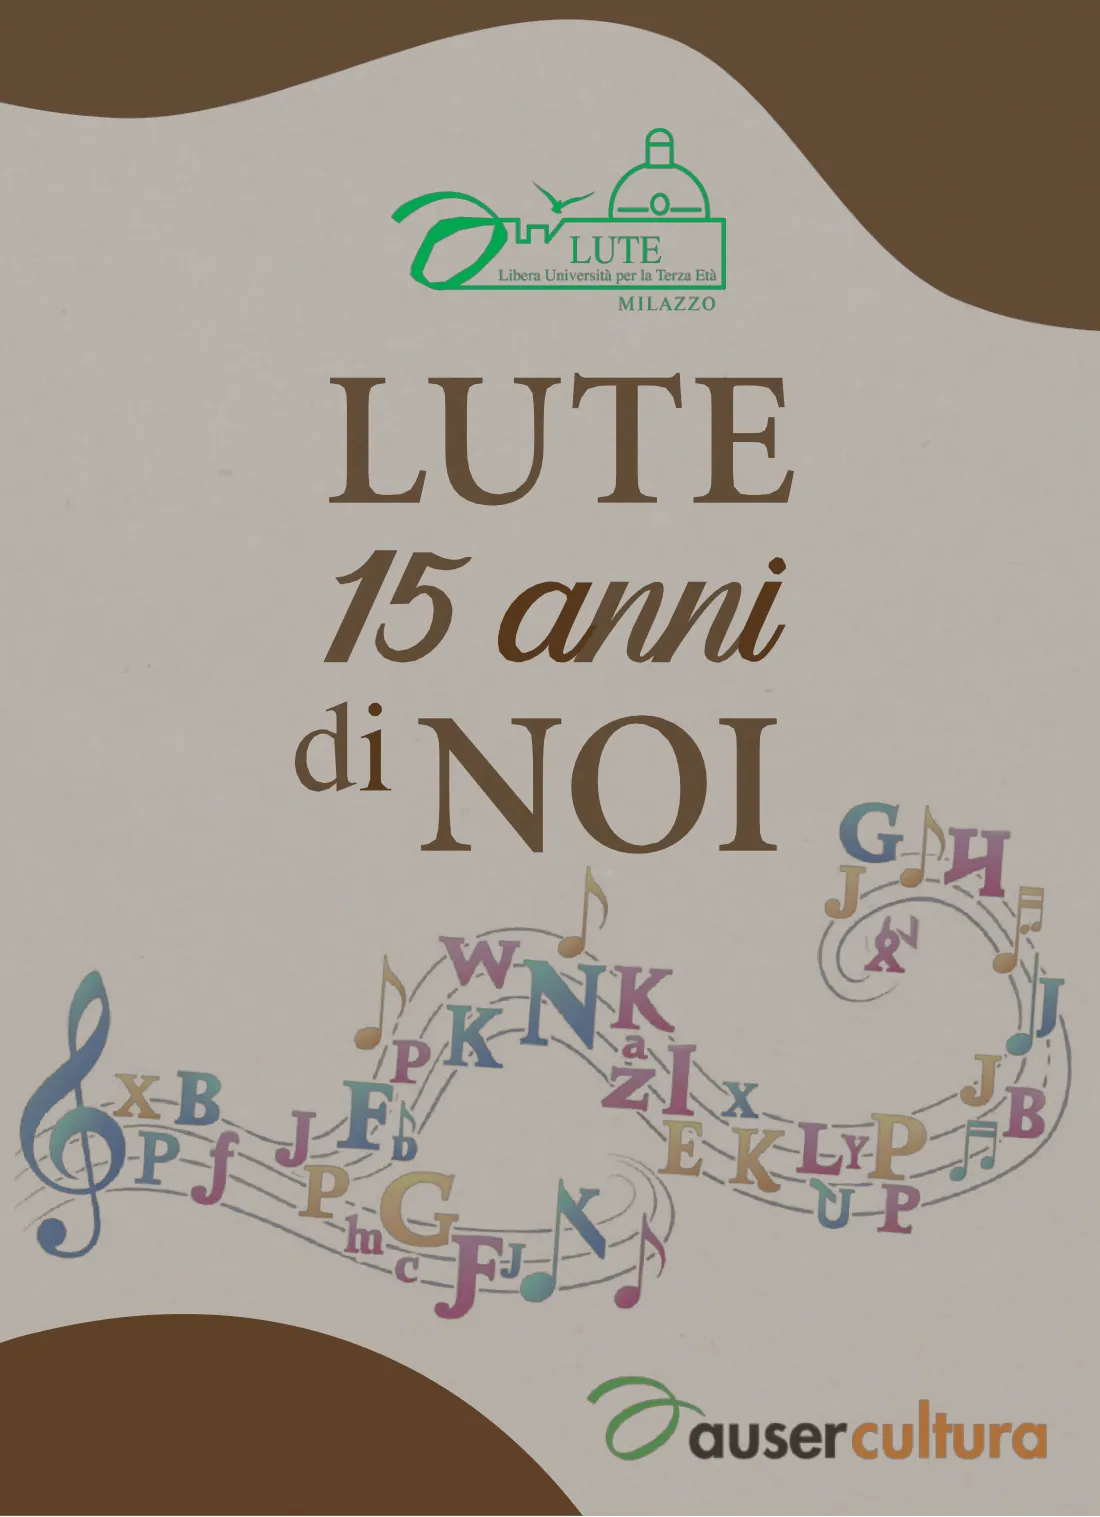
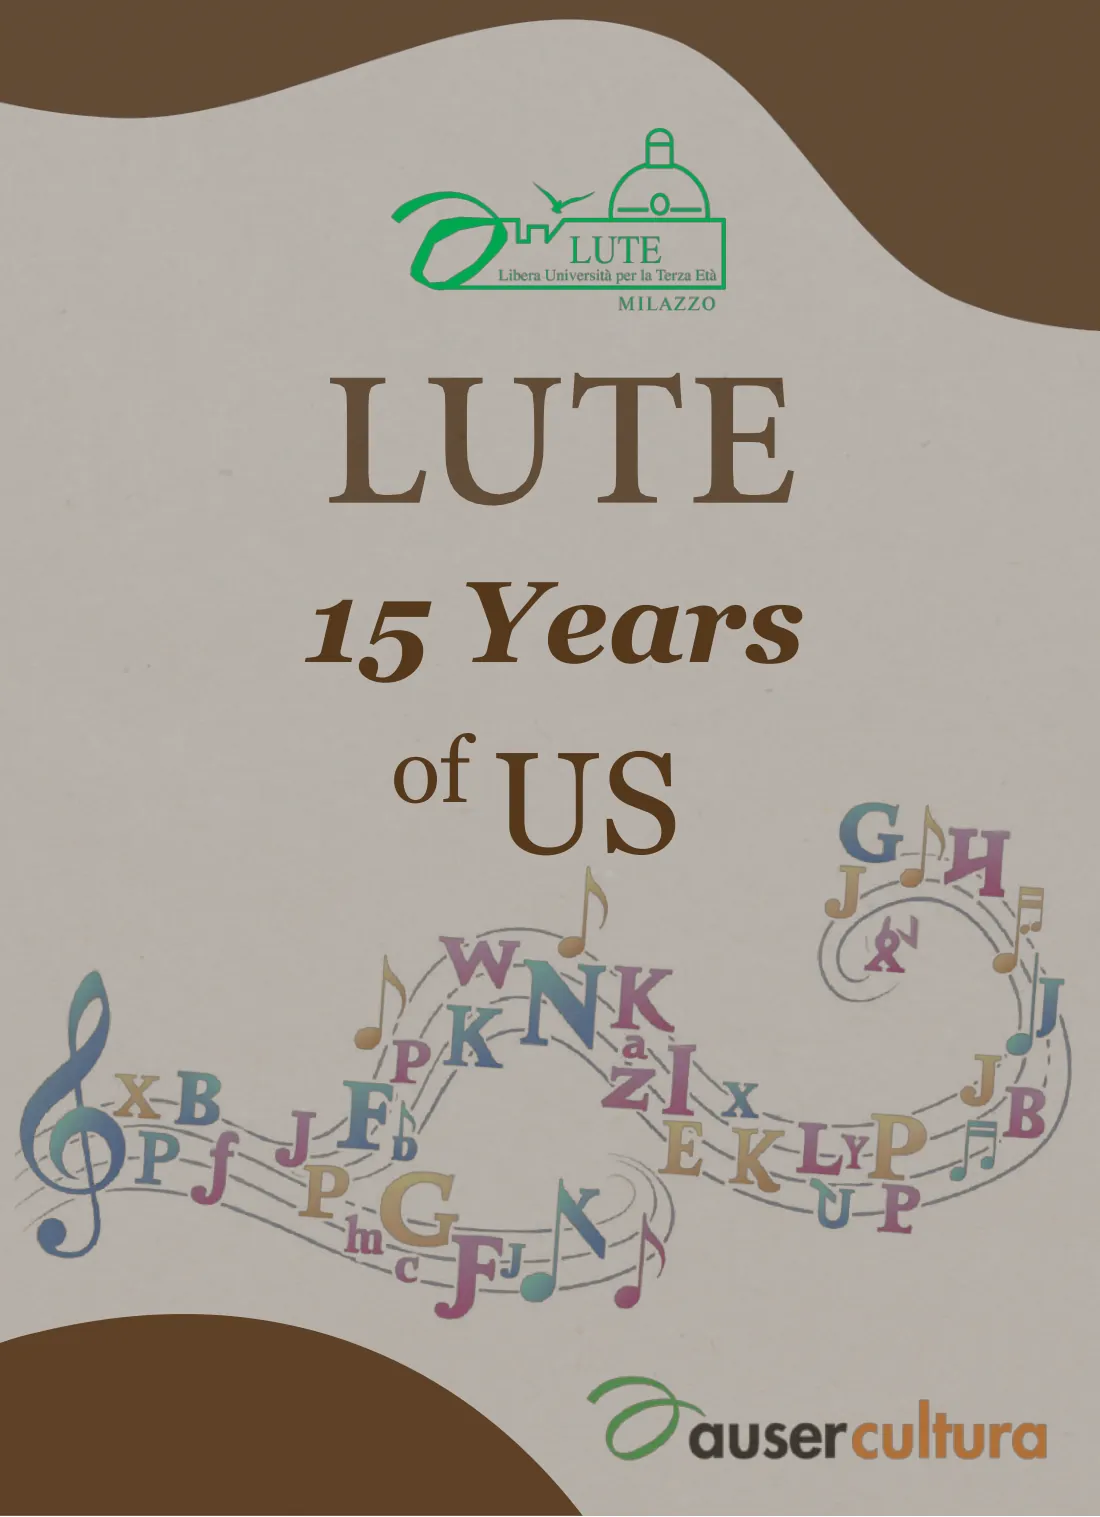
Edizione inglese: copertina e frontespizio con il titolo in inglese (15 Years of US)

Changed region(s): [[0.2473, 0.3408, 0.7418, 0.5887]]

diff --git a/app.js b/app.js
@@ -35,6 +35,7 @@
     }
   };
   var ZOOM = [520, 640, 760, 900, 1050, 1200];
+  var VERSIONE_PAGINE = 2;   // da aumentare quando si rifanno le immagini delle pagine
 
   var libro = document.getElementById('libro');
   var elenco = document.getElementById('elenco');
@@ -85,7 +86,7 @@
       f.className = 'pagina';
       f.id = idPagina(pdf);
       var img = document.createElement('img');
-      img.src = ed.cartella + '/' + String(pdf).padStart(3, '0') + '.webp';
+      img.src = ed.cartella + '/' + String(pdf).padStart(3, '0') + '.webp?v=' + VERSIONE_PAGINE;
       img.width = dim[0];
       img.height = dim[1];
       img.alt = pdf === 1 ? t.copertina : t.pagina + ' ' + etichetta(pdf);

diff --git a/index.html b/index.html
@@ -80,6 +80,6 @@
 
   <script src="dati.js?v=2"></script>
   <script src="dati-en.js?v=2"></script>
-  <script src="app.js?v=4"></script>
+  <script src="app.js?v=5"></script>
 </body>
 </html>

diff --git a/titolo_inglese.py b/titolo_inglese.py
@@ -1,0 +1,57 @@
+# Copertina e frontespizio dell'edizione inglese: nel PDF il titolo è rimasto in italiano ("15 anni di NOI", disegnato
+# a tracciati). Qui si cancellano "15 anni" e "di NOI" (si tiene "LUTE") e si scrive "15 Years of US" con lo stesso colore.
+# Usato da crea_pagine_en.py prima di creare le immagini (il PDF originale non viene modificato).
+import pymupdf
+
+FONT_CORSIVO = r"C:\Windows\Fonts\georgiaz.ttf"   # Georgia grassetto corsivo, simile a "15 anni"
+FONT_TONDO = r"C:\Windows\Fonts\georgia.ttf"       # Georgia, simile a "di NOI"
+
+# per pagina: zona da cancellare, colore, posizione delle due righe (x sinistra, x destra, linea di base, altezza)
+PAGINE = {
+    1: {"cancella": (110, 205, 318, 338), "colore": (0.341, 0.220, 0.110),
+        "riga2": (127, 309, 260, 44), "riga3": (116, 305, 335, 53)},
+    2: {"cancella": (120, 276, 312, 396), "colore": (0.694, 0.702, 0.714),
+        "riga2": (136, 303, 323, 41), "riga3": (126, 300, 392, 50)},
+}
+
+def scrivi(page, testo, fontfile, nome, x0, x1, base, altezza, colore):
+    # dimensione tale che le maiuscole siano alte come quelle originali, centrato fra x0 e x1
+    f = pymupdf.Font(fontfile=fontfile)
+    size = altezza / f.ascender * 0.98
+    larg = f.text_length(testo, fontsize=size)
+    if larg > (x1 - x0) * 1.08:
+        size *= (x1 - x0) * 1.08 / larg
+        larg = f.text_length(testo, fontsize=size)
+    x = (x0 + x1) / 2 - larg / 2
+    page.insert_text((x, base), testo, fontsize=size, fontname=nome, fontfile=fontfile, color=colore)
+
+def titolo_inglese(doc):
+    for n, c in PAGINE.items():
+        p = doc[n - 1]
+        p.add_redact_annot(pymupdf.Rect(*c["cancella"]))
+        p.apply_redactions(images=pymupdf.PDF_REDACT_IMAGE_NONE,
+                           graphics=pymupdf.PDF_REDACT_LINE_ART_REMOVE_IF_TOUCHED, text=pymupdf.PDF_REDACT_TEXT_REMOVE)
+        x0, x1, base, alt = c["riga2"]
+        scrivi(p, "15 Years", FONT_CORSIVO, "corsivo", x0, x1, base, alt, c["colore"])
+        # "of US": "of" piccolo come "di", "US" grande come "NOI"
+        x0, x1, base, alt = c["riga3"]
+        fo, fu = pymupdf.Font(fontfile=FONT_TONDO), pymupdf.Font(fontfile=FONT_TONDO)
+        s_of, s_us = alt * 0.62 / fo.ascender, alt / fu.ascender * 0.98
+        l_of, l_us = fo.text_length("of ", fontsize=s_of), fu.text_length("US", fontsize=s_us)
+        x = (x0 + x1) / 2 - (l_of + l_us) / 2
+        p.insert_text((x, base - alt * 0.38), "of", fontsize=s_of, fontname="tondo", fontfile=FONT_TONDO, color=c["colore"])
+        p.insert_text((x + l_of, base), "US", fontsize=s_us, fontname="tondo", fontfile=FONT_TONDO, color=c["colore"])
+
+if __name__ == "__main__":
+    # prova: crea anteprima_titolo.png con le due pagine
+    from PIL import Image
+    d = pymupdf.open(r"C:\Users\Filippo\Desktop\Book 15 Years Lute.pdf")
+    titolo_inglese(d)
+    ims = []
+    for n in (1, 2):
+        pix = d[n - 1].get_pixmap(dpi=110)
+        ims.append(Image.frombytes("RGB", (pix.width, pix.height), pix.samples))
+    f = Image.new("RGB", (ims[0].width + ims[1].width + 10, max(i.height for i in ims)), "white")
+    f.paste(ims[0], (0, 0)); f.paste(ims[1], (ims[0].width + 10, 0))
+    f.save("anteprima_titolo.png")
+    print("anteprima_titolo.png")

diff --git a/crea_pagine_en.py b/crea_pagine_en.py
@@ -14,6 +14,8 @@ PAGINE_INDICE = range(6, 11)
 PRIMA_PAGINA_TESTO = 12
 
 d = pymupdf.open(PDF)
+from titolo_inglese import titolo_inglese
+titolo_inglese(d)   # copertina e frontespizio: "15 anni di NOI" -> "15 Years of US"
 
 cartella = os.path.join(QUI, "pagine-en")
 os.makedirs(cartella, exist_ok=True)

diff --git a/CLAUDE.md b/CLAUDE.md
@@ -13,6 +13,7 @@ App HTML-CSS-JS (statica, senza librerie) per leggere online il libro "LUTE · 1
 - Selettore **IT | EN** nella barra in alto. Lingua: `?lang=en` nell'indirizzo, poi quella scelta e salvata (`localStorage libro_lute_lingua`), poi quella del telefono (italiano → IT, altrimenti EN).
 - Il libro inglese è un PDF a parte fornito dall'utente: `C:\Users\Filippo\Desktop\Book 15 Years Lute.pdf` (217 pagine). `python crea_pagine_en.py` crea `pagine-en/` e `dati-en.js`.
 - ⚠ I numeri di pagina dell'indice stampato inglese sono COPIATI da quello italiano e non corrispondono al PDF inglese (i capitoli cadono più avanti; anche i numeri in testa alle pagine hanno salti). Lo script trova l'inizio dei capitoli dalle pagine con il titolo in caratteri grandi (48 = 48 voci, controllato). Nell'app, in entrambe le lingue, "pagina N" = pagina N+1 del PDF.
+- **Copertina e frontespizio inglesi** (2026-10-28): nel PDF inglese il titolo era rimasto "15 anni di NOI" (disegnato a tracciati). `titolo_inglese.py`, chiamato da crea_pagine_en.py, cancella "15 anni" e "di NOI" (tiene "LUTE") e scrive "15 Years of US" con lo stesso colore (Georgia). Il PDF originale non viene modificato. `VERSIONE_PAGINE` in app.js va aumentata quando si rifanno le immagini.
 - Cambiando lingua si resta nello stesso capitolo, alla stessa distanza dal suo inizio.
 - **Arrivo dal sito Erasmus → sito LUTE → menu Documenti (2026-10-28, richiesta dell'utente; NON toccare il sito Erasmus né lutemilazzo.org):**
   - lingua Erasmus diversa dall'italiano: il sito LUTE è tradotto da Google e anche il libro si apre dentro il traduttore (`pxh2407-github-io.translate.goog/libro-lute/?_x_tr_tl=pl`). Uno script in testa a index.html esce dal traduttore e apre `https://pxh2407.github.io/libro-lute/?lang=en` (o `?lang=it` se la traduzione era verso l'italiano);
